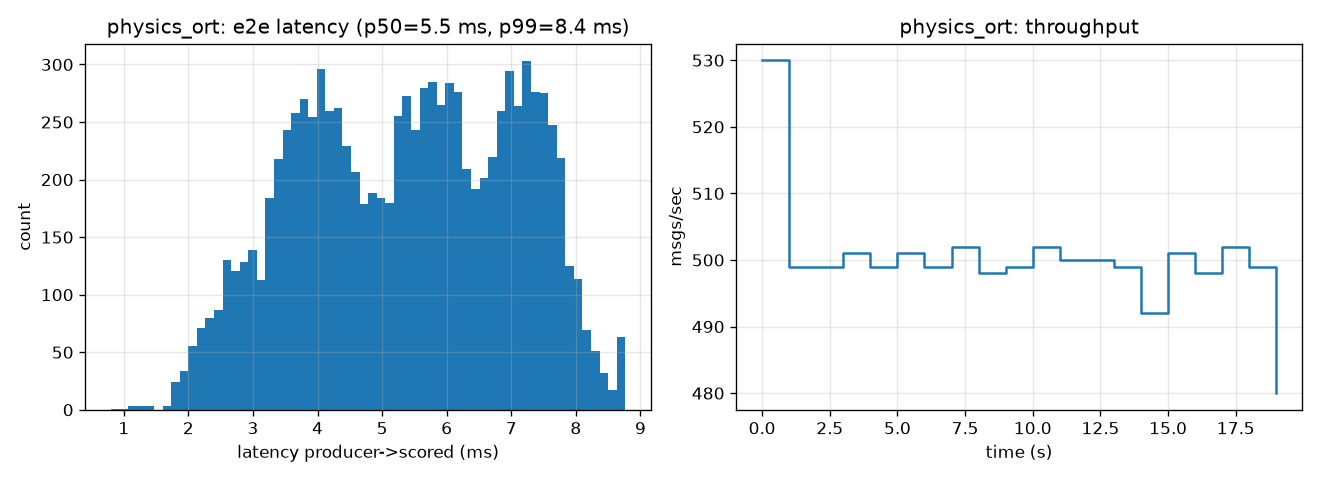
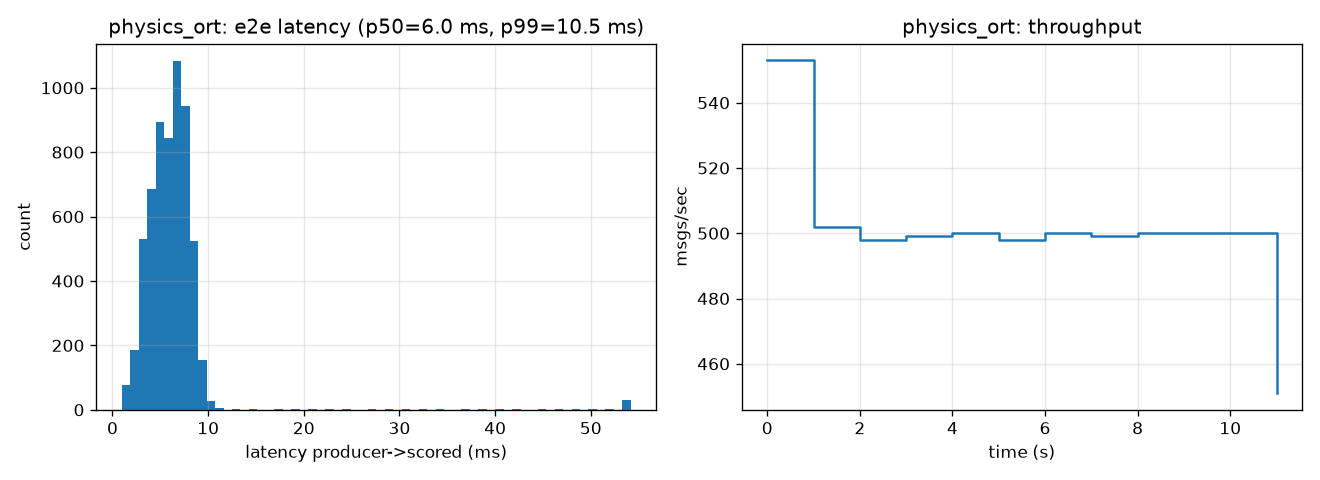
fix: phase 4 issues

diff --git a/services/ingest_root/ingest_nanoaod.py b/services/ingest_root/ingest_nanoaod.py
@@ -10,10 +10,13 @@ producer interface as Phase 1 -- so the Kafka client stays on the host (matching
 "producers are host processes") and the ROOT image is not fattened with
 confluent-kafka.
 
-Memory: implicit MT is enabled and only the needed branches are read; ``--limit``
-caps the number of events materialized so the 12 GB WSL guest never OOMs. The
-source may be a local file (from ``fetch_nanoaod.sh``) or a ``root://`` URL that
-RDataFrame streams directly (no local copy).
+Memory: only the needed branches are read and ``--limit`` caps the number of
+events materialized (via ``RDataFrame.Range``) so the 12 GB WSL guest never OOMs.
+A capped run stays single-threaded because ``Range()`` and implicit MT are
+mutually exclusive in RDataFrame; a full-file ingest (``--limit 0``) enables
+implicit MT. The source is a **local file** written by ``fetch_nanoaod.sh``:
+``rootproject/root:latest`` no longer bundles an XRootD client, so ``root://``
+streaming is unavailable and we ingest the downloaded local copy.
 
 Run (in-container):
     python3 services/ingest_root/ingest_nanoaod.py \
@@ -63,7 +66,7 @@ def _met_branches(columns: set[str]) -> tuple[str, str]:
 def main(argv=None) -> None:
     p = argparse.ArgumentParser(description=__doc__.splitlines()[0])
     p.add_argument("--source", required=True,
-                   help="local .root path or root:// URL (Events tree)")
+                   help="local .root file path (Events tree)")
     p.add_argument("--tree", default="Events")
     p.add_argument("--out", default="data/interim/cms_events_57.npy")
     p.add_argument("--limit", type=int, default=50_000,
@@ -73,7 +76,11 @@ def main(argv=None) -> None:
     args = p.parse_args(argv)
 
     ROOT = _import_root()
-    if args.threads != 1:
+    # RDataFrame.Range() and implicit MT are mutually exclusive: Range() throws
+    # under ImplicitMT. A capped run (--limit > 0) uses Range(), so it stays
+    # single-threaded on purpose; only a full-file ingest (--limit == 0) enables
+    # implicit MT.
+    if args.limit == 0 and args.threads != 1:
         ROOT.EnableImplicitMT(args.threads if args.threads > 0 else 0)
 
     df = ROOT.RDataFrame(args.tree, args.source)

diff --git a/docs/ingest_root.md b/docs/ingest_root.md
@@ -11,7 +11,7 @@ flow through the frozen sim-trained scorer and drift monitor unchanged.
 ```
 rootproject/root:latest (one-shot)            host (pharos env)
 ┌───────────────────────────────────┐         ┌──────────────────────────────┐
-│ fetch_nanoaod.sh   (xrdcp)         │         │ services/ingest_root/        │
+│ fetch_nanoaod.sh   (curl HTTPS)    │         │ services/ingest_root/        │
 │   → data/raw/cms_opendata/*.root   │         │   stream_cms.py              │
 │ ingest_nanoaod.py  (RDataFrame)    │  npy    │   replays (N,57) through the │
 │   Events tree → build 57-vectors   │────────►│   Phase 1 producer interface │
@@ -63,13 +63,33 @@ retune anything to close it.
 
 ## Memory safety on the 12 GB WSL guest
 
-- `ROOT.EnableImplicitMT()` — multithreaded event loop.
 - `RDataFrame.Range(--limit)` caps the number of events materialized (default
   50 000); only the needed branches are pulled via `AsNumpy`. Peak stays well
   under the guest budget because the full file is never held in memory — for a
   larger sample, lower `--limit` or ingest in ranges.
-- The source may be a **local file** (from `fetch_nanoaod.sh`) or a `root://`
-  URL that RDataFrame **streams** directly (no local multi-GB copy).
+- `Range()` and `ROOT.EnableImplicitMT()` are **mutually exclusive** in
+  RDataFrame (`Range` throws under implicit MT), so a capped run (`--limit > 0`)
+  runs **single-threaded** on purpose. Only a full-file ingest (`--limit 0`)
+  enables the multithreaded event loop. The 50 000-event cap is single-pass fast
+  regardless.
+- Ingestion reads a **local file** written by `fetch_nanoaod.sh`. We do **not**
+  stream `root://` directly: `rootproject/root:latest` no longer bundles an
+  XRootD client (no `xrdcp`, no `libXrdCl.so.3`), so both xrdcp and RDataFrame
+  `root://` streaming are unavailable. We fetch over HTTPS to a local copy first.
+
+## Fetching over HTTPS (`curl -k` + adler32)
+
+`fetch_nanoaod.sh` downloads the NanoAOD file with `curl` over HTTPS instead of
+`xrdcp`. Two rationale points, documented here and in the script:
+
+- **`curl -k`** — `eospublic.cern.ch` redirects to an EOS gateway whose TLS
+  chain is the CERN Grid CA, which is not in the ROOT image's default CA bundle.
+  Rather than install the CERN CA into the container, we skip TLS verification
+  and instead establish trust via the file checksum.
+- **adler32 integrity check** — after download the script recomputes the file's
+  adler32 and fails loudly (deleting the partial file) if it does not match the
+  value published in the Open Data record's file index. This is the real
+  integrity guarantee and does not depend on the TLS trust chain.
 
 ## Running it
 
@@ -83,7 +103,12 @@ make up
 make sim-vs-real        # → reports/phase4/sim_vs_real_drift.json
 ```
 
-The default source is a Run2016 UL NanoAODv9 `DoubleMuon` file; any NanoAOD with
-the standard `Electron/Muon/Jet/PuppiMET` branches works. If the default file is
-too large for the guest or the endpoint is unreachable, pick a smaller Open Data
-record (`CMS_NANOAOD_URL=…`) rather than grinding — the project stop-rule.
+The default source is the CMS Open Data **ZeroBias PFNano** file (record 31316,
+`/ZeroBias/Run2016G-UL2016_MiniAODv2_PFNanoAODv1`, ~1.05 GB). ZeroBias is an
+inclusive/unbiased minimum-bias sample (random bunch-crossing readout, no physics
+trigger) — the right basis for a sim-to-real domain-gap study, unlike a triggered
+primary dataset. It carries the standard `Electron/Muon/Jet/(Puppi)MET` branches
+plus PF candidates. Override with `CMS_NANOAOD_URL=…` (and `CMS_ADLER32=…`, or
+empty to skip the checksum) for a different file; if the endpoint is unreachable
+or the file is too large for the guest, pick a smaller Open Data record rather
+than grinding — the project stop-rule.

diff --git a/reports/phase4/physics_auc_table.md b/reports/phase4/physics_auc_table.md
@@ -1,0 +1,10 @@
+# Stream A physics ROC/AUC — background vs A->4l
+
+Model: `/mnt/e/AI_Projects/PHAROS/models/physics_vae_r20260711T173416Z` · n_bg=100000 n_sig=55969
+
+| Score | AUC | bg median | sig median | bg mean | sig mean |
+|-------|-----|-----------|------------|---------|----------|
+| Σμ² (trigger) | **0.775** | 1.46e-06 | 5.12e-06 | 6.01e-05 | 0.195 |
+| recon MSE (offline) | **0.889** | 0.231 | 2.3 | 0.895 | 267 |
+
+_Medians quoted alongside means: both scores are heavy-tailed and non-negative, so recon-MSE means are outlier-dominated._